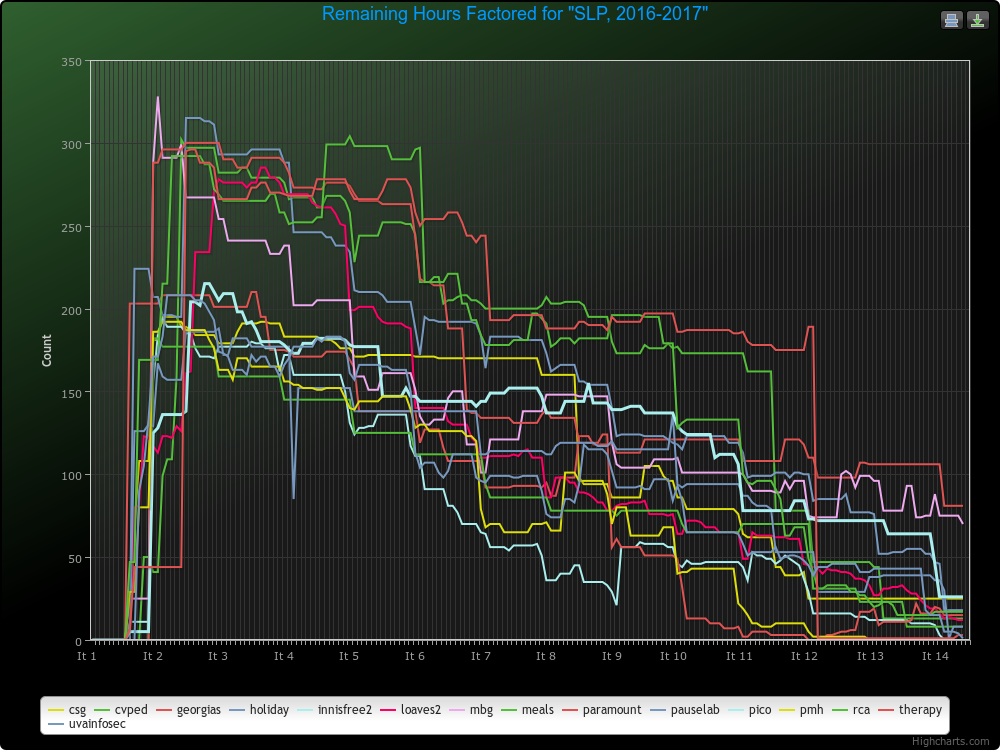
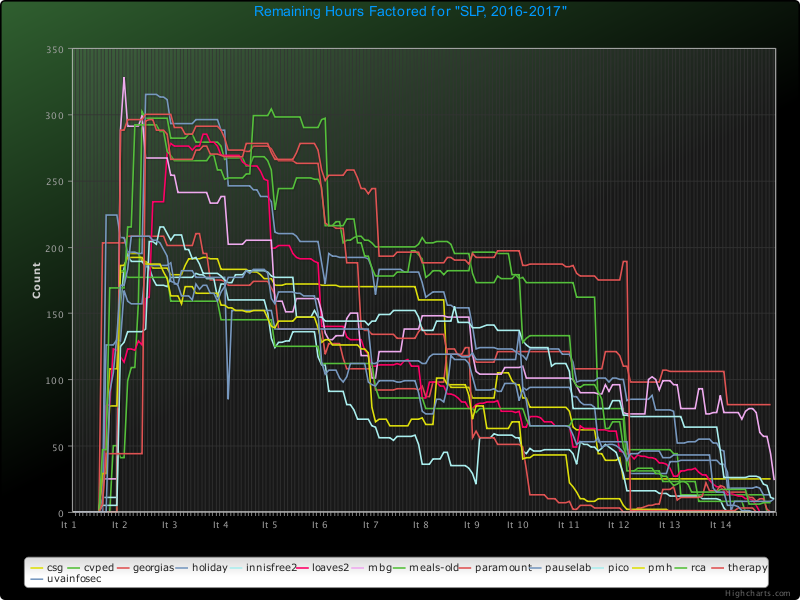
Updates for tomorrow's lecture

diff --git a/slides/07-estimation.html b/slides/07-estimation.html
@@ -81,6 +81,10 @@
 ## What is a task: use cases
 - Just a prose (i.e. English) explanation of what's happening
   - Play a dice game: player requests to roll the dice.  System presents results: if the dice face value totals seven, player wins; otherwise, player looses.
+	  </script></section>
+
+	  <section data-markdown><script type="text/template">
+## What is a task: use cases
 - Three types:
   - Brief: one-paragraph summary (like the one 2 slides ago) that covers the 'happy path'
     - This is like a user story
@@ -92,7 +96,7 @@
 ## What unit to estimate a task in?
 - Waterfall methods use time (hours/days/etc.)
   - But this does not differentiate between hard tasks (coding) and mundane tasks (documentation)
-  - And how can one really predict the time something will take?
+  - And how can one really predict time taken?
 - Agile methodologies often uses *effort*
   - Often measured in *story points*
   - So a hard and short task may rate the same as a long and easy task
@@ -107,16 +111,16 @@
   - T-shirt sizes: XS, S, M, L, XL, XXL, XXXL
   - Fibonacci sequence: 1, 2, 3, 5, 8, 13, 21, etc.
     - Some upper limit here, such as 13 or 21
-    - Tasks bigger than this should be broken down into smaller tasks
+    - Tasks > 21 should be split into smaller tasks
   - Dog breeds: Chihuahua (small) to Great Dane (large)
-- It matters not, as long as the team understands the scale
+- It matters not, as long as the scale is agreed upon
 - We'll use the Fibonacci sequence
-  - Although I'm open to teams using custom ones; more on this shortly
+  - Although I'm open to teams using custom ones...
 	  </script></section>
 
 	  <section data-markdown><script type="text/template">
 ## What about unknown task lengths?
-- Often this will be overestimated: 10, XXXL, 21, Great Dane, etc.
+- Often this will be overestimated: 10, XXXL, 21, etc.
   - By splitting it into smaller tasks, you can better estimate the individual parts
 - One purpose of the inception step is to estimate how much the tasks might take so that they aren't all listed as Great Danes
   - And our iteration 1 is inception-like
@@ -171,6 +175,10 @@
 - All of our tasks will be github issues
 - We have to do 24 (or 28 or 32) story points of "stuff" in this iteration
   - And thus you should be entering and marking off tasks during this iteration
+	  </script></section>
+
+	  <section data-markdown><script type="text/template">
+## Marking off tasks
 - Do <font color='red'>NOT</font> make up tasks to hit this number!
   - It's meant as a guide; I am not going to hold you to that number
     - But if you don't enter any tasks, I will assume you are not doing any work
@@ -186,13 +194,16 @@
   - And, presumably, the sprint length we are using
 - We can divide one by the other to get an estimate of how many sprints the project will take
   - And thus we can compute how long the project will take
+	  </script></section>
+
+	  <section data-markdown><script type="text/template">
+## Release length
 - Estimates not guaranteed to be 100% accurate
   - But in our case, the number of sprints is fixed
 	  </script></section>
 
 	  <section data-markdown><script type="text/template">
 ## Wait... we are aiming for a target?
-- Yes!
 - In most projects, you determine what the customer wants, and then estimate how much money and time it will take
 - But our projects are fixed in terms of resources (people and time)
 - So we can only do about 264 (or 308 or 352) story points on this project
@@ -225,8 +236,8 @@
 	  </script></section>
 
 	  <section data-markdown><script type="text/template">
-## SLP burndown from 2015-2016
-![SLP 2013-2014 burndown chart](images/02-development-methods/slp-2015-2016.png)
+## SLP burndown from 2016-2017
+![SLP 2016-2017 burndown chart](images/02-development-methods/slp-2016-2017.png)
 	  </script></section>
 
 	</section>
@@ -240,7 +251,7 @@
 	  <section data-markdown><script type="text/template">
 ## Github iteration milestones
 - EACH iteration will have it's own milestone (named "iteration 1", "iteration 14", etc.)
-  - Again, don't change the spacing or characters, but I don't care about the capitalization case you use
+  - Again, don't change the spacing or characters, but I don't care about the capitalization you use
 - When you are moving tasks from the product backlog into the sprint backlog, you just assign them to that particular milestone
 	  </script></section>
 
@@ -261,27 +272,48 @@
   - Make sure these tags are exactly as specified here!
     - Don't add spaces, use underlines, etc.
     - But I don't care about the capitalization case you use
+	  </script></section>
+
+	  <section data-markdown><script type="text/template">
+## Github story point tags
 - If you do not put a story point tag on each issue, then my automated script will start throwing all sorts of errors, and I'll have to track you down to fix it, which will just make me cranky
 	  </script></section>
 
 	  <section data-markdown><script type="text/template">
 ## Using your own scale
+- Your scale should have some concept of size
+  - So gummy bear colors is not all that useful...
 - You are welcome to use your own scale of story points, with the following restrictions:
   - What you use must map to the Fibonacci numbers
     - And thus you must do the equivalent of 4 story points per user per iteration
   - Your custom github tags must all begin with "story-points-"
-  - You must provide me a mapping of your tags to the Fibonacci numbers; for example:
-    - "story-points-chihuahua" maps to "story-points-1"
-    - "story-points-great-dane" maps to "story-points-21"
-    - Etc.
+	  </script></section>
+
+	  <section data-markdown><script type="text/template">
+## Using your own scale
+- You must provide me a mapping of your tags to the Fibonacci numbers; for example:
+  - "story-points-chihuahua" maps to "story-points-1"
+  - "story-points-great-dane" maps to "story-points-21"
+  - Etc.
 - Realize that I may have to modify your scale a bit...
+  - I have to ensure my script works with that scale
+	  </script></section>
+
+	  <section data-markdown><script type="text/template">
+## Current alternative scales
+- Dogs: chihuahua, poodle, terrier, border-collie, retriever, great-dane, clifford
+- T-shirt sizes: xs, s, m, l, xl, xxl, xxxl
+- These all map, respectively, to 1, 2, 3, 5, 8, 13, 21
+- You don't have to let me know if you are using these *exact* scales
+- Otherwise, let's chat
+  - As I have to modify a script to handle a new scale
 	  </script></section>
 
 	  <section data-markdown><script type="text/template">
 ## Zero story points?
 - Sure, this can happen
   - Usually when one realizes that a task is not necessary
-- Just use "story-points-0" as the tag
+- Just use "story-points-0" or "story-points-none" as the tag
   - Or something else, if you give me the mapping
 	  </script></section>
 
@@ -298,6 +330,11 @@
 - At the end of iteration 1, we will ask:
   - How many total story points in each system? And how many are left?
   - Do they all have priorities and story points?
+	  </script></section>
+
+	  <section data-markdown><script type="text/template">
+## Conclusion
+- At the end of iteration 1, we will ask:
   - Does the "iteration 1" milestone have tasks assigned to it?
     - And were those tasks completed?
     - We realize that, since we are just getting started, that the story points completed in iteration 1 may not be the expected amount
@@ -306,13 +343,18 @@
 
 	  <section data-markdown id="task"><script type="text/template">
 ## Today's task...
-- Decide on the story point unit you want to use (and send me the mapping, if you are using something else)
+- Decide on the story point unit you want to use
+  - And send me the mapping, if necessary
 - Create the labels in github's issues for both priorities and story points
 - Create the 14 milestones
 - Enter *all* your issues in github
-  - Estimate the effort for each one using whatever scale your team decides to use, and assign a priority to each
+  - Estimate the effort for each task using your scale, and assign a priority to each
 - Assign tasks to the "iteration 1" milestone
   - You can add completed tasks (just mark them as done and give them story points and priority tags)
+	  </script></section>
+
+	  <section data-markdown id="task"><script type="text/template">
+## Today's task...
 - You will not likely finish this all today, but it should be finished by the end of this iteration
 	  </script></section>
 

diff --git a/uva/daily-announcements.html b/uva/daily-announcements.html
@@ -59,6 +59,61 @@ line-height:120%;
 
 	<section>
 
+	<section data-markdown data-separator="^\n$"><textarea data-template>
+<h2>Real Estate</h2>
+<img class="stretch" src="http://imgs.xkcd.com/comics/real_estate.png" title="I tried converting the prices into pizzas, to put it in more familiar terms, and it just became a hard-to-think-about number of pizzas." alt="Real Estate" srcset="http://imgs.xkcd.com/comics/real_estate_2x.png 2x">
+<p class="center"><a href="http://xkcd.com/1894/">xkcd # 1894</a></p>
+
+
+## Wednesday, September 27th
+- Office hours are in the [syllabus](syllabus.html)
+- The homeworks are (mostly) all finished and are being graded
+    - [HW 6: Iteration checklist](../docs/hw6-iteration-checklist.html) is due this Friday by midnight
+- We are half-way through iteration 1
+- Leads: your first report was due yesterday by noon; everybody got it in!
+- Remember you have to report hours at least once each iteration
+- Remember about how to [reserve a room for the meetings](#/meetingsrsvp); and about the [meeting report format](course-introduction-fall.html#/meetingreport)
+- Your journal prompt was due yesterday by noon; see [here](#/journaling) for details (partial credit available until Friday at noon)
+- Remember that you have to [upgrade to Django 1.11.5](#/dupgrade)
+- PostEm has now moved to the course administration system
+- The course server will have a bit of downtime this week (hopefully less than 15 minutes a piece)
+- Today is a an [estimation workday](../slides/07-estimation.html#/)
+
+
+## Basecamp
+- Your basecamp projects are all set up
+- To join, you have to follow the URL given in the `basecamp_url` field of your "Accounts" PostEm
+  - Which is now in the course management system
+  - In theory, that should allow you to join (you likely will have to create an account)
+- Basecamp is meant to handle inter-group communication
+  - Chats, message boards, to-do lists, scheduling, documents & files, etc.
+- It is <font color='red'>NOT</font> to be used in lieu of the things that we are using github for
+  - We'll see these today, but they include: issues, story points, backlogs, and file storage
+- Everybody has to join in *this* iteration (it's now a listed [iteration goal](iteration-goals.html#/))
+
+
+## Goals for iteration 1
+See [here](../slides/05-project-start.html#/it1goals) for full details, but briefly:
+
+- Fully understand the requirements
+- Meet with the customer
+- Design (and implement) a basic DB schema
+- Get your development environment set up (see the [slp docs](../docs/index.html) and [uva-slp/tutorails](https://github.com/uva-slp/tutorials) for guidance)
+- Get a basic MVC site working on the course server
+  - Once done, you have to email me so that I can complete the apache2 configuration
+- Have the system stored properly in the github repo (no passwords!!!)
+  - That means having all your framework created files in an app/ (or similar) folder
+- Enter all the requirements as tasks as Github issues (today)
+- Everybody MUST have a github commit this iteration (and, in general, every iteration)
+- Everybody must add themselves to their basecamp project
+	</textarea></section>
+
+	</section>
+
+	<!-- - - - - - - - - - - - - - - - - - - - - - - - - - - - - - -->
+
+	<section>
+
 	  <section>
 <h2>USB Cables</h2>
 <img class="stretch" src="http://imgs.xkcd.com/comics/usb_cables.png" title="Tag yourself, I&#39;m &quot;frayed.&quot;" alt="USB Cables" srcset="http://imgs.xkcd.com/comics/usb_cables_2x.png 2x">
@@ -81,7 +136,7 @@ line-height:120%;
   - This Wednesday we will see [project estimation](../slides/07-estimation.html), so please wait until then to start entering all your github issues
 	  </script></section>
 
-          <section data-markdown><script type="text/template">
+          <section data-markdown id="dupgrade"><script type="text/template">
 ## Python & Django versions
 - Django 1.11.5 recently came out (on September 5th)
   - It's a security release

diff --git a/uva/iteration-goals.html b/uva/iteration-goals.html
@@ -284,6 +284,7 @@ See [here](../slides/05-project-start.html#/it1goals) for full details, but brie
 - That means having all your framework created files in an app/ folder!
 - Enter all the requirements as tasks as Github issues as described [here](../slides/07-estimation.html#/task)
 - Everybody MUST have a github commit this iteration (and, in general, every iteration)
+- Everybody must add themselves to their basecamp project
 	  </script></section>
 
 	<!-- - - - - - - - - - - - - - - - - - - - - - - - - - - - - - -->

diff --git a/slides/05-project-start.html b/slides/05-project-start.html
@@ -344,6 +344,7 @@
   - See the [uva-slp/tutorails](https://github.com/uva-slp/tutorials) repo for guidance, as well as the [development environment setup](../docs/dev-env-setup.html) page
 - Get a basic MVC website working on the course server (CRUD operations for the schema tables)
   - This should all be working on the course server by the end of the iteration
+- Everybody must add themselves to their basecamp project
 	  </script></section>
 
 	  <section data-markdown><script type="text/template">

diff --git a/slides/02-development-methods.html b/slides/02-development-methods.html
@@ -291,6 +291,11 @@ You know you don't nderstand elaboration when...
 	  </script></section>
 
 	  <section data-markdown><script type="text/template">
+## SLP burndown from 2016-2017
+![SLP 2016-2017 burndown chart](images/02-development-methods/slp-2016-2017.png)
+	  </script></section>
+
+	  <section data-markdown><script type="text/template">
 ## Daily Scrums
 
 The daily meeting of the entire programming group
